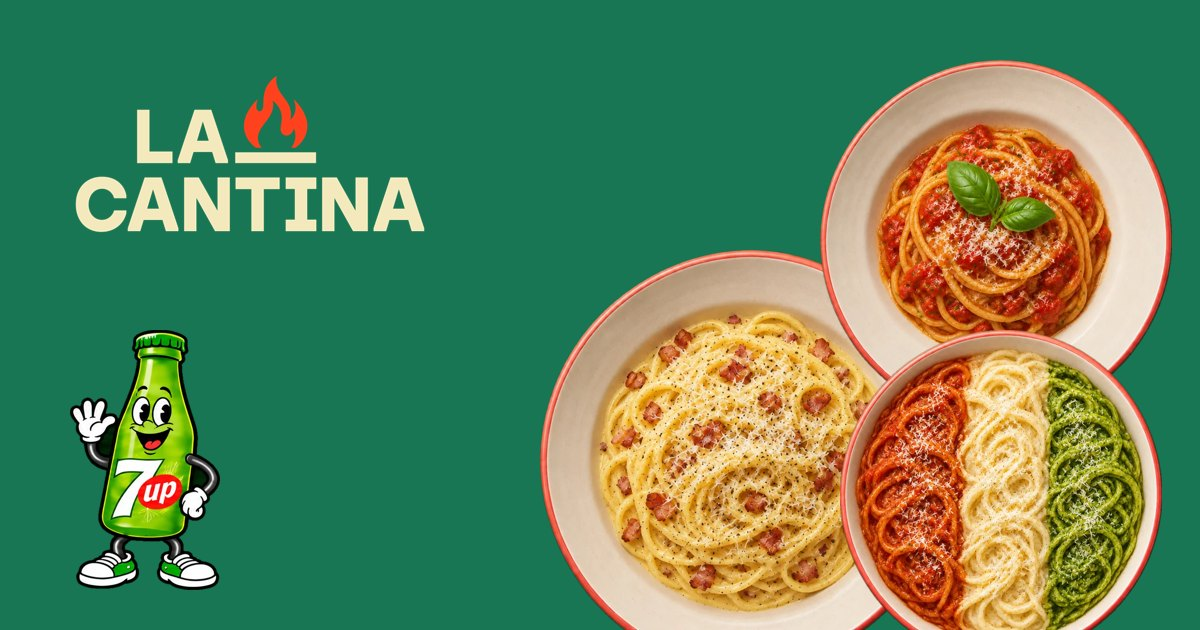
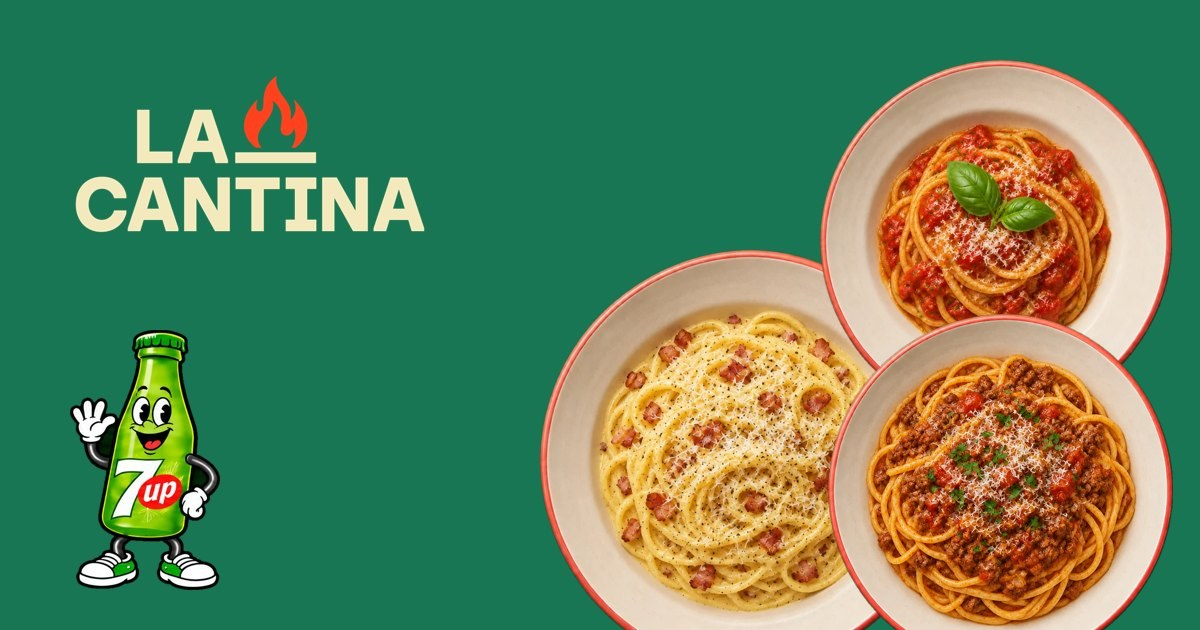
Carta nueva: 4 pastas con precio propio, combos de desayuno con Maltín
Claude-Session: https://claude.ai/code/session_011YZ7UA64nPUJNoVuPvDDQt

Changed region(s): [[0.6783, 0.4825, 0.9867, 1.0]]

diff --git a/index.html b/index.html
@@ -4,11 +4,11 @@
 <meta charset="utf-8">
 <meta name="viewport" content="width=device-width, initial-scale=1">
 <title>La Cantina · Tu pasta favorita en Porlamar</title>
-<meta name="description" content="La Cantina, pasta al instante en Porlamar. Seis pastas, todas con queso, a un solo precio y con el refresco de regalo. Pide por WhatsApp: delivery o pickup.">
+<meta name="description" content="La Cantina, pasta al instante en Porlamar. Cuatro pastas con tajada, pan y queso, y el refresco de regalo. Desayunos: empanadas, arepas y tequeños, sueltos o en combo con Maltín. Pide por WhatsApp: delivery o pickup.">
 <meta property="og:type" content="website">
 <meta property="og:url" content="https://gutierrezbj.github.io/lacantina/">
 <meta property="og:title" content="La Cantina · Tu pasta favorita en Porlamar">
-<meta property="og:description" content="Tu pasta favorita, como te gusta: seis pastas con queso, un solo precio y el refresco de regalo. Delivery y pickup.">
+<meta property="og:description" content="Tu pasta favorita, como a ti te gusta: Nápole, Boloña, Carbonara y Alfredo con tajada, pan, queso y el refresco de regalo. Delivery y pickup.">
 <meta property="og:image" content="https://gutierrezbj.github.io/lacantina/img/og.jpg">
 <meta property="og:image:width" content="1200">
 <meta property="og:image:height" content="630">
@@ -20,7 +20,7 @@
 <link rel="preconnect" href="https://fonts.gstatic.com" crossorigin>
 <link href="https://fonts.googleapis.com/css2?family=Outfit:wght@300;400;600;800;900&display=swap" rel="stylesheet">
 <script type="application/ld+json">
-{"@context":"https://schema.org","@type":"Restaurant","name":"La Cantina","slogan":"El punto de encuentro de Porlamar","servesCuisine":["Pasta","Desayuno venezolano"],"telephone":"+58 422 2340009","address":{"@type":"PostalAddress","addressLocality":"Porlamar","addressRegion":"Nueva Esparta","addressCountry":"VE"},"sameAs":["https://www.instagram.com/lacantina.mgta/"],"hasMenu":{"@type":"Menu","hasMenuSection":{"@type":"MenuSection","name":"Pastas","hasMenuItem":[{"@type":"MenuItem","name":"Nápole"},{"@type":"MenuItem","name":"Boloña"},{"@type":"MenuItem","name":"Carbonara"},{"@type":"MenuItem","name":"Alfredo"},{"@type":"MenuItem","name":"Tríptico"},{"@type":"MenuItem","name":"Amatriciana"}]}}}
+{"@context":"https://schema.org","@type":"Restaurant","name":"La Cantina","slogan":"El punto de encuentro de Porlamar","servesCuisine":["Pasta","Desayuno venezolano"],"telephone":"+58 422 2340009","address":{"@type":"PostalAddress","addressLocality":"Porlamar","addressRegion":"Nueva Esparta","addressCountry":"VE"},"sameAs":["https://www.instagram.com/lacantina.mgta/"],"hasMenu":{"@type":"Menu","hasMenuSection":[{"@type":"MenuSection","name":"Pastas","description":"Con tajada, pan, queso y refresco","hasMenuItem":[{"@type":"MenuItem","name":"Boloña"},{"@type":"MenuItem","name":"Nápole"},{"@type":"MenuItem","name":"Carbonara"},{"@type":"MenuItem","name":"Alfredo"}]},{"@type":"MenuSection","name":"Desayunos","description":"Por unidad o combo de 2 + Maltín","hasMenuItem":[{"@type":"MenuItem","name":"Empanadas"},{"@type":"MenuItem","name":"Arepas"},{"@type":"MenuItem","name":"Tequeños"}]}]}}
 </script>
 <style>
 /* ===== TOKENS · identidad La Cantina (manual de marca JRGB) ===== */
@@ -77,7 +77,7 @@ h2{font-size:clamp(40px,7vw,84px)}
 .mbar .btn{width:100%;box-shadow:var(--sh-2)}
 @media (max-width:860px){.mbar{display:block}body{padding-bottom:76px}}
 
-/* ===== HERO: la rueda de las 6 favoritas ===== */
+/* ===== HERO: la rueda de las favoritas ===== */
 .hero{--bg:var(--coral);--fg:var(--cream);--acc:var(--honey);position:relative;min-height:100vh;min-height:100svh;overflow:hidden;background:var(--bg);color:var(--fg);transition:background-color var(--t-slow) var(--ease),color var(--t-slow) var(--ease);padding-top:76px;isolation:isolate}
 .hero__word{position:absolute;left:0;right:0;top:clamp(80px,12vh,120px);margin:0;text-align:center;font-weight:900;font-size:clamp(64px,15.5vw,250px);line-height:.82;letter-spacing:-.045em;text-transform:uppercase;z-index:0;pointer-events:none}
 .hero__word span{display:block}
@@ -95,7 +95,8 @@ h2{font-size:clamp(40px,7vw,84px)}
 .arrows{display:flex;gap:10px;margin-top:4px}
 .arrow{width:48px;height:48px;border-radius:50%;border:2px solid currentColor;background:transparent;display:grid;place-items:center;font-size:22px;font-weight:600}
 .hero__price,.hero__seven{z-index:4}
-.hero__price{position:absolute;left:var(--pad);top:47%;display:flex;align-items:center;gap:14px;font-weight:800;font-size:clamp(14px,1.4vw,18px);text-transform:uppercase;line-height:1.05;--pcs:clamp(70px,8vw,110px)}
+.hero__price > span:last-child{padding:6px 10px;border-radius:10px;background:var(--bg);transition:background-color var(--t-slow)}
+.hero__price{position:absolute;left:var(--pad);top:40%;display:flex;flex-direction:column;align-items:flex-start;gap:8px;font-weight:800;font-size:clamp(14px,1.4vw,18px);text-transform:uppercase;line-height:1.05;--pcs:clamp(70px,8vw,110px)}
 .hero__seven{position:absolute;right:var(--pad);top:40%;display:flex;align-items:flex-end;gap:10px;font-weight:800;text-transform:uppercase;font-size:clamp(13px,1.3vw,17px);line-height:1.05;text-align:right}
 .hero__seven img{width:clamp(80px,9vw,130px);height:auto;animation:wave 3.2s var(--ease) infinite;transform-origin:50% 100%}
 @keyframes wave{0%,70%,100%{transform:rotate(0)}78%{transform:rotate(-6deg)}86%{transform:rotate(5deg)}}
@@ -118,7 +119,9 @@ h2{font-size:clamp(40px,7vw,84px)}
 .menu__deal{display:flex;align-items:center;gap:16px;font-weight:800;text-transform:uppercase;line-height:1.1;--pcs:96px}
 .incl{display:flex;flex-wrap:wrap;gap:8px;margin-top:16px}
 .incl span{padding:6px 14px;border-radius:999px;background:var(--pine);color:var(--cream);font-weight:600;font-size:15px}
-.cards{display:grid;grid-template-columns:repeat(3,1fr);gap:22px}
+.cards{display:grid;grid-template-columns:repeat(4,1fr);gap:22px}
+.card__price{display:flex;flex-direction:column;align-items:flex-start;gap:4px;margin:-4px 0 14px;font-weight:800;font-size:24px;line-height:1;color:var(--coral);--pcs:46px}
+.card__price small{font-size:13px;font-weight:700;letter-spacing:.08em;text-transform:uppercase;color:var(--ink-60)}
 .card{position:relative;background:var(--cream-2);border-radius:var(--r-l);padding:20px 20px 22px;display:flex;flex-direction:column;box-shadow:0 1px 0 var(--hair-l)}
 .card__img{background:var(--c,var(--pine));border-radius:calc(var(--r-l) - 10px);padding:18px;margin-bottom:16px}
 .card__img img{width:100%;aspect-ratio:1;object-fit:contain;filter:drop-shadow(0 12px 14px rgba(21,20,25,.3));transition:transform var(--t-slow) var(--ease)}
@@ -193,6 +196,14 @@ h2{font-size:clamp(40px,7vw,84px)}
 select.bf__note{appearance:auto;cursor:pointer}
 .bf .btn{flex:1 1 100%;min-height:46px}
 .bf.is-added{animation:bump 420ms var(--ease-pop)}
+.desa__maltin{height:54px;width:auto;vertical-align:middle;margin-right:12px}
+.bf__mode{display:flex;gap:4px;padding:4px;border-radius:999px;background:rgba(244,233,189,.1);margin-top:4px}
+.bf__mode button{border:0;border-radius:999px;padding:8px 14px;background:transparent;color:var(--cream);font:inherit;font-size:14px;font-weight:700}
+.bf__mode button[aria-pressed="true"]{background:var(--honey);color:var(--ink)}
+.bf__fills{display:flex;flex-wrap:wrap;gap:8px;flex:1 1 100%}
+.bf .pc{flex-shrink:0}
+.bf__combo{display:flex;align-items:center;gap:8px;font-size:14px;font-weight:600;color:var(--cream-70)}
+.bf__combo img{height:38px;width:auto}
 .desa__foot{display:flex;flex-wrap:wrap;align-items:center;justify-content:space-between;gap:16px;margin-top:36px;padding:20px 24px;border-radius:var(--r-l);background:rgba(244,233,189,.08);font-weight:600}
 @media (max-width:860px){.bfs{grid-template-columns:1fr}.bf{grid-template-columns:110px 1fr;justify-items:start;text-align:left;align-items:center}.bf img{width:110px;grid-row:1/3}.bf h3{margin:0}.bf__ctl{grid-column:1/-1;justify-content:flex-start}}
 
@@ -247,12 +258,12 @@ select.bf__note{appearance:auto;cursor:pointer}
     <div class="dish" aria-live="polite">
       <div class="dish__name" id="dName">Nápole</div>
       <p class="dish__desc" id="dDesc"></p>
-      <p class="dish__incl">Con queso · refresco de regalo</p>
+      <p class="dish__incl">Con tajada, pan y queso · refresco de regalo</p>
       <div class="dots" id="dots"></div>
       <div class="arrows"><button class="arrow" id="prev" aria-label="Pasta anterior">←</button><button class="btn btn--cream" id="dAdd">Quiero esta</button><button class="arrow" id="next" aria-label="Pasta siguiente">→</button></div>
     </div>
   </div>
-  <div class="hero__price"><span class="pc js-price">—</span><span>Tan solo<br>por</span></div>
+  <div class="hero__price"><span class="pc" id="hPrice"></span><span>Tan solo por</span></div>
   <div class="hero__seven"><img src="img/sevenup.webp" alt="7Up"></div>
 </section>
 
@@ -261,11 +272,10 @@ select.bf__note{appearance:auto;cursor:pointer}
   <div class="wrap">
     <header class="menu__head">
       <div>
-        <p class="kicker" style="color:var(--coral)">Tu pasta favorita, como te gusta</p>
+        <p class="kicker" style="color:var(--coral)">Tu pasta favorita, como a ti te gusta</p>
         <h2 id="menuT">Elige tu <span>favorita.</span></h2>
-        <div class="incl"><span>Todas incluyen queso</span><span>+ Refresco de regalo</span><span>Delivery · Pickup</span></div>
+        <div class="incl"><span>Todas con tajada, pan y queso</span><span>+ Refresco de regalo</span><span>Delivery · Pickup</span></div>
       </div>
-      <div class="menu__deal"><span>Todas<br>tan solo por</span><span class="pc js-price">—</span></div>
     </header>
     <div class="cards" id="cards"></div>
 
@@ -300,9 +310,9 @@ select.bf__note{appearance:auto;cursor:pointer}
   <div class="wrap">
     <p class="kicker">Desayunos</p>
     <h2 id="desaT">¡Aquí se desayuna!</h2>
-    <p class="lead">Arepas, empanadas y tequeños para arrancar el día. Horario de desayunos: <span class="pend">pendiente</span></p>
+    <p class="lead">Empanadas, arepas y tequeños para arrancar el día. Por unidad o en combo: 2 + un Maltín. Horario de desayunos: <span class="pend">pendiente</span></p>
     <div class="bfs" id="bfs"></div>
-    <div class="desa__foot"><span>Y para acompañar, tu Maltín. Todo entra en el mismo pedido.</span><a class="btn btn--honey" href="#pedido">Ver mi pedido</a></div>
+    <div class="desa__foot"><span><img src="img/maltin.webp" alt="Maltín Polar" class="desa__maltin">Cada combo lleva su Maltín. Pastas y desayunos van en el mismo pedido.</span><a class="btn btn--honey" href="#pedido">Ver mi pedido</a></div>
   </div>
 </section>
 
@@ -349,22 +359,25 @@ select.bf__note{appearance:auto;cursor:pointer}
 const LC = {
   whatsapp: '584222340009', whatsappShow: '0422-2340009',
   moneda: '$',
-  precio: null,        // precio único por plato (incluye queso y refresco). null = pendiente
   delivery: null,      // costo del delivery en $. null = por confirmar
   tasaBs: null,        // Bs por $. null = no mostrar bolívares
   // bg/fg/acc = colores de la portada cuando ese plato está al centro
+  // orden de la cristalera interior. price = precio del plato (incluye tajada, pan, queso y refresco). null = pendiente
   platos: [
-    {id:'napole',      name:'Nápole',      desc:'Salsa napolitana de tomate con albahaca.',          bg:'#FF421D', fg:'#F4E9BD', acc:'#FFC050'},
-    {id:'bolona',      name:'Boloña',      desc:'Salsa boloña de carne molida.',                     bg:'#187654', fg:'#F4E9BD', acc:'#FFC050'},
-    {id:'carbonara',   name:'Carbonara',   desc:'Salsa cremosa con tocineta y pimienta.',            bg:'#FFC050', fg:'#151419', acc:'#FF421D'},
-    {id:'alfredo',     name:'Alfredo',     desc:'Salsa blanca cremosa de queso.',                    bg:'#F4E9BD', fg:'#151419', acc:'#187654'},
-    {id:'triptico',    name:'Tríptico',    desc:'Tres salsas en un plato: napolitana, blanca y pesto.', bg:'#0E5A3E', fg:'#F4E9BD', acc:'#FF421D'},
-    {id:'amatriciana', name:'Amatriciana', desc:'Tomate con tocineta y un toque picante.',           bg:'#151419', fg:'#F4E9BD', acc:'#FF421D'}
+    {id:'bolona',    name:'Boloña',    desc:'Salsa boloña de carne molida.',             price:null, bg:'#187654', fg:'#F4E9BD', acc:'#FFC050'},
+    {id:'napole',    name:'Nápole',    desc:'Salsa napolitana de tomate con albahaca.',  price:null, bg:'#FF421D', fg:'#F4E9BD', acc:'#FFC050'},
+    {id:'carbonara', name:'Carbonara', desc:'Salsa cremosa con tocineta y pimienta.',    price:null, bg:'#FFC050', fg:'#151419', acc:'#FF421D'},
+    {id:'alfredo',   name:'Alfredo',   desc:'Salsa blanca cremosa de queso.',            price:null, bg:'#F4E9BD', fg:'#151419', acc:'#187654'}
   ],
+  incluye: 'tajada, pan, queso y refresco de regalo',
   refrescos: ['7Up', 'Pepsi'],  // el primero es el destacado
-  // precio por unidad de cada desayuno. null = pendiente
   rellenos: ['Pollo', 'Carne mechada', 'Pepitona', 'Cazón', 'Queso amarillo'],   // arepas y empanadas
-  desayunos: [ {id:'arepas',name:'Arepa',plural:'Arepas',price:null,relleno:true}, {id:'empanadas',name:'Empanada',plural:'Empanadas',price:null,relleno:true}, {id:'tequenos',name:'Tequeño',plural:'Tequeños',price:null,relleno:false} ]
+  // price = por unidad · combo = 2 unidades + 1 Maltín. null = pendiente
+  desayunos: [
+    {id:'empanadas', name:'Empanada', plural:'Empanadas', price:null, combo:null, relleno:true},
+    {id:'arepas',    name:'Arepa',    plural:'Arepas',    price:null, combo:null, relleno:true},
+    {id:'tequenos',  name:'Tequeño',  plural:'Tequeños',  price:null, combo:null, relleno:false}
+  ]
 };
 
 (() => {
@@ -375,19 +388,19 @@ const LC = {
   const money = n => LC.moneda + n.toFixed(2);
   const bs = n => isNum(LC.tasaBs) ? 'Bs ' + (n * LC.tasaBs).toLocaleString('es-VE', { minimumFractionDigits:2, maximumFractionDigits:2 }) : '';
   const code = 'LC-' + Date.now().toString(36).slice(-3).toUpperCase() + Math.random().toString(36).slice(2,4).toUpperCase();
-  $$('.js-price').forEach(n => n.textContent = isNum(LC.precio) ? money(LC.precio).replace('.00','') : '');
+  const short = n => money(n).replace('.00','');
 
   /* ---------- HERO: rueda ---------- */
-  const N = LC.platos.length, step = 360 / N, hero = $('#top'), wheel = $('#wheel'), wIn = $('#wheelIn');
+  const N = LC.platos.length, P = N < 6 ? N * 2 : N, step = 360 / P, hero = $('#top'), wheel = $('#wheel'), wIn = $('#wheelIn');
   let idx = 0, rot = 0, timer = null;
   function geom(){
     const w = innerWidth, h = hero.offsetHeight, mob = w < 861;
     const pd = mob ? Math.min(w * .78, h * .38) : Math.min(w * .3, h * .46, 560);
-    const R = pd * 1.35, cyPlate = mob ? h * .40 : h * .50;
+    const R = pd * (P > 6 ? 1.5 : 1.35), cyPlate = mob ? h * .40 : h * .50;
     wheel.style.setProperty('--pd', pd); wheel.style.top = (cyPlate + R) + 'px';
     $$('.plate').forEach((p,i) => p.style.transform = `rotate(${i*step}deg) translateY(${-R}px)`);
   }
-  wIn.innerHTML = LC.platos.map((p,i) => `<div class="plate" data-i="${i}"><img src="img/${p.id}.webp" alt="${p.name}" draggable="false"></div>`).join('');
+  wIn.innerHTML = Array.from({length:P}, (_,k) => { const p = LC.platos[k % N]; return `<div class="plate" data-i="${k % N}"${k >= N ? ' aria-hidden="true"' : ''}><img src="img/${p.id}.webp" alt="${k >= N ? '' : p.name}" draggable="false"></div>`; }).join('');
   $('#dots').innerHTML = LC.platos.map((p,i) => `<button aria-label="${p.name}" data-i="${i}"></button>`).join('');
   function show(i, user){
     const d = ((i - idx) % N + N) % N; const delta = d > N/2 ? d - N : d;
@@ -396,7 +409,7 @@ const LC = {
     const p = LC.platos[idx];
     document.documentElement.style.setProperty('--navc', p.fg);
     hero.style.setProperty('--bg', p.bg); hero.style.setProperty('--fg', p.fg); hero.style.setProperty('--acc', p.acc);
-    $('#dName').textContent = p.name; $('#dDesc').textContent = p.desc;
+    $('#dName').textContent = p.name; $('#dDesc').textContent = p.desc; $('#hPrice').textContent = isNum(p.price) ? short(p.price) : '';
     $$('#dots button').forEach((b,k) => b.setAttribute('aria-current', k === idx));
     if (user) restart();
   }
@@ -416,6 +429,7 @@ const LC = {
     <article class="card" data-id="${p.id}" style="--c:${p.bg}">
       <div class="card__img"><img src="img/${p.id}.webp" alt="${p.name}" loading="lazy"></div>
       <h3>${p.name}</h3><p>${p.desc}</p>
+      <div class="card__price">${isNum(p.price) ? short(p.price) : '<span class="pc" aria-label="precio por confirmar"></span>'}<small>Tajada, pan, queso y refresco</small></div>
       <div class="card__row">
         <div class="qty"><button data-d="-1" aria-label="Uno menos de ${p.name}">−</button><span>1</span><button data-d="1" aria-label="Uno más de ${p.name}">+</button></div>
         <select class="sel" aria-label="Refresco para ${p.name}">${LC.refrescos.map(r => `<option>${r}</option>`).join('')}</select>
@@ -439,10 +453,11 @@ const LC = {
     same ? same.qty = Math.min(50, same.qty + qty) : order.push({ kind, id, qty, drink, note });
     draw();
   }
-  const unit = o => o.kind === 'pasta' ? LC.precio : byId(LC.desayunos, o.id).price;
-  const itemName = o => o.kind === 'pasta' ? byId(LC.platos, o.id).name : byId(LC.desayunos, o.id)[o.qty > 1 ? 'plural' : 'name'] + (o.note ? ' ' + o.note : '');
+  const unit = o => o.kind === 'pasta' ? byId(LC.platos, o.id).price : byId(LC.desayunos, o.id)[o.drink === 'combo' ? 'combo' : 'price'];
+  const itemName = o => { if (o.kind === 'pasta') return byId(LC.platos, o.id).name; const d = byId(LC.desayunos, o.id);
+    return o.drink === 'combo' ? `Combo 2 ${d.plural.toLowerCase()}${o.note ? ' ' + o.note : ''} + Maltín` : d[o.qty > 1 ? 'plural' : 'name'] + (o.note ? ' ' + o.note : ''); };
   const itemDetail = o => o.kind === 'pasta' ? 'refresco: ' + o.drink : '';
-  const priced = () => order.length ? order.every(o => isNum(unit(o))) : isNum(LC.precio);
+  const priced = () => order.length > 0 && order.every(o => isNum(unit(o)));
   const isDeliv = () => mode === 'Delivery';
   const fee = () => isDeliv() && isNum(LC.delivery) ? LC.delivery : 0;
   const count = () => order.reduce((a,o) => a + o.qty, 0);
@@ -513,7 +528,7 @@ const LC = {
       const lines = order.map((o,i) => `${i+1}) ${o.qty}× ${itemName(o)}${itemDetail(o) ? ' · ' + itemDetail(o) : ''}${priced() ? ' — ' + money(o.qty * unit(o)) : ''}`).join('\n');
       const who = [`Nombre: ${cust.name.trim() || '—'}`, `Entrega: ${mode}`];
       if (isDeliv()){ who.push(`Dirección: ${cust.addr.trim() || '—'}`); if (cust.ref.trim()) who.push(`Referencia: ${cust.ref.trim()}`); if (cust.geo) who.push(`Ubicación: ${cust.geo}`); }
-      const head = `¡Hola, La Cantina! Pedido #${code}\n${lines}${order.some(o => o.kind === 'pasta') ? '\n(Las pastas incluyen queso y refresco de regalo)' : ''}\n${who.join('\n')}`;
+      const head = `¡Hola, La Cantina! Pedido #${code}\n${lines}${order.some(o => o.kind === 'pasta') ? `\n(Las pastas incluyen ${LC.incluye})` : ''}\n${who.join('\n')}`;
       if (!priced()) return `${head}\n¿Cuánto sería?`;
       const t = total(), dl = isDeliv() ? (isNum(LC.delivery) ? `\nDelivery: ${money(LC.delivery)}` : '\nDelivery: por confirmar') : '';
       return `${head}${dl}\nTOTAL: ${money(t)}${bs(t) ? ' (' + bs(t) + ')' : ''}\n✓ Revisé y confirmo mi pedido y el total.`;
@@ -526,20 +541,30 @@ const LC = {
   $('#code').textContent = '#' + code;
 
   /* ---------- DESAYUNOS ---------- */
+  const fillSel = (d, n) => `<select class="bf__note" aria-label="Relleno de ${d.name.toLowerCase()} ${n}"><option value="">${n ? 'Relleno ' + n : 'Elige el relleno'}</option>${LC.rellenos.map(r => `<option>${r}</option>`).join('')}</select>`;
+  const pr = v => isNum(v) ? short(v) : '<span class="pc" aria-label="precio por confirmar"></span>';
   $('#bfs').innerHTML = LC.desayunos.map(d => `<article class="bf" data-id="${d.id}"><img src="img/${d.id}.webp" alt="${d.plural}" loading="lazy"><h3>${d.plural}</h3>
-    <div class="bf__from">${isNum(d.price) ? 'C/u ' + money(d.price) : 'Precio <span class="pc" aria-label="precio por confirmar"></span>'}</div>
-    <div class="bf__ctl"><div class="qty"><button data-d="-1" aria-label="Una menos">−</button><span>1</span><button data-d="1" aria-label="Una más">+</button></div>
-    ${d.relleno ? `<select class="bf__note" aria-label="Relleno de ${d.plural}"><option value="">Elige el relleno</option>${LC.rellenos.map(r => `<option>${r}</option>`).join('')}</select>` : ''}<button class="btn btn--honey">+ Añadir al pedido</button></div></article>`).join('');
+    <div class="bf__mode" role="group" aria-label="Cómo lo quieres"><button aria-pressed="true" data-m="u">Por unidad</button><button aria-pressed="false" data-m="c">Combo 2 + Maltín</button></div>
+    <div class="bf__from" data-show="u">C/u ${pr(d.price)}</div>
+    <div class="bf__from" data-show="c" hidden>Combo ${pr(d.combo)}<span class="bf__combo"><img src="img/maltin.webp" alt="">2 ${d.plural.toLowerCase()} + Maltín</span></div>
+    <div class="bf__ctl"><div class="qty"><button data-d="-1" aria-label="Uno menos">−</button><span>1</span><button data-d="1" aria-label="Uno más">+</button></div>
+    ${d.relleno ? `<div class="bf__fills" data-show="u">${fillSel(d,'')}</div><div class="bf__fills" data-show="c" hidden>${fillSel(d,1)}${fillSel(d,2)}</div>` : ''}<button class="btn btn--honey">+ Añadir al pedido</button></div></article>`).join('');
   $$('.bf').forEach(c => {
-    const q = c.querySelector('.qty span'), note = c.querySelector('.bf__note');
+    const q = c.querySelector('.qty span'); let m = 'u';
+    c.querySelectorAll('.bf__mode button').forEach(b => b.onclick = () => {
+      m = b.dataset.m; c.querySelectorAll('.bf__mode button').forEach(x => x.setAttribute('aria-pressed', x === b));
+      c.querySelectorAll('[data-show]').forEach(x => x.hidden = x.dataset.show !== m);
+    });
     c.querySelectorAll('.qty button').forEach(b => b.onclick = () => q.textContent = Math.max(1, Math.min(50, +q.textContent + +b.dataset.d)));
     c.querySelector('.btn').onclick = () => {
-      if (note && !note.value){ note.classList.remove('is-shake'); void note.offsetWidth; note.classList.add('is-shake','is-miss'); note.focus(); return; }
-      add(c.dataset.id, +q.textContent, '', 'desa', note ? 'de ' + note.value.toLowerCase() : '');
-      q.textContent = 1; if (note){ note.value = ''; note.classList.remove('is-miss'); } c.classList.remove('is-added'); void c.offsetWidth; c.classList.add('is-added');
+      const sels = [...c.querySelectorAll(`.bf__fills[data-show="${m}"] select`)];
+      const miss = sels.find(x => !x.value);
+      if (miss){ miss.classList.remove('is-shake'); void miss.offsetWidth; miss.classList.add('is-shake','is-miss'); miss.focus(); return; }
+      const fills = [...new Set(sels.map(x => x.value.toLowerCase()))];
+      add(c.dataset.id, +q.textContent, m === 'c' ? 'combo' : '', 'desa', fills.length ? 'de ' + fills.join(' y ') : '');
+      q.textContent = 1; sels.forEach(x => { x.value = ''; x.classList.remove('is-miss'); }); c.classList.remove('is-added'); void c.offsetWidth; c.classList.add('is-added');
     };
   });
-
   /* ---------- nav y barra móvil ---------- */
   const nav = $('#nav'), mbar = $('.mbar');
   const onScroll = () => nav.classList.toggle('is-solid', scrollY > hero.offsetHeight - 80);
